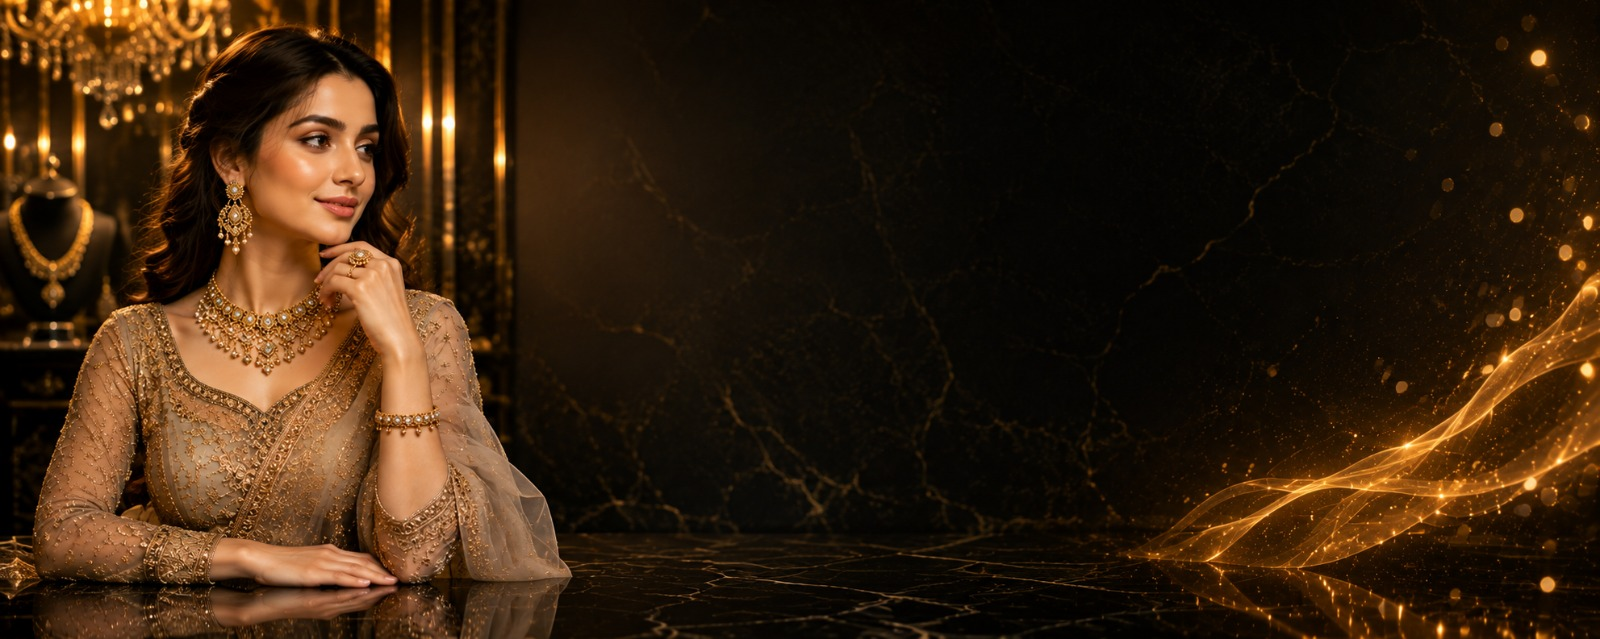
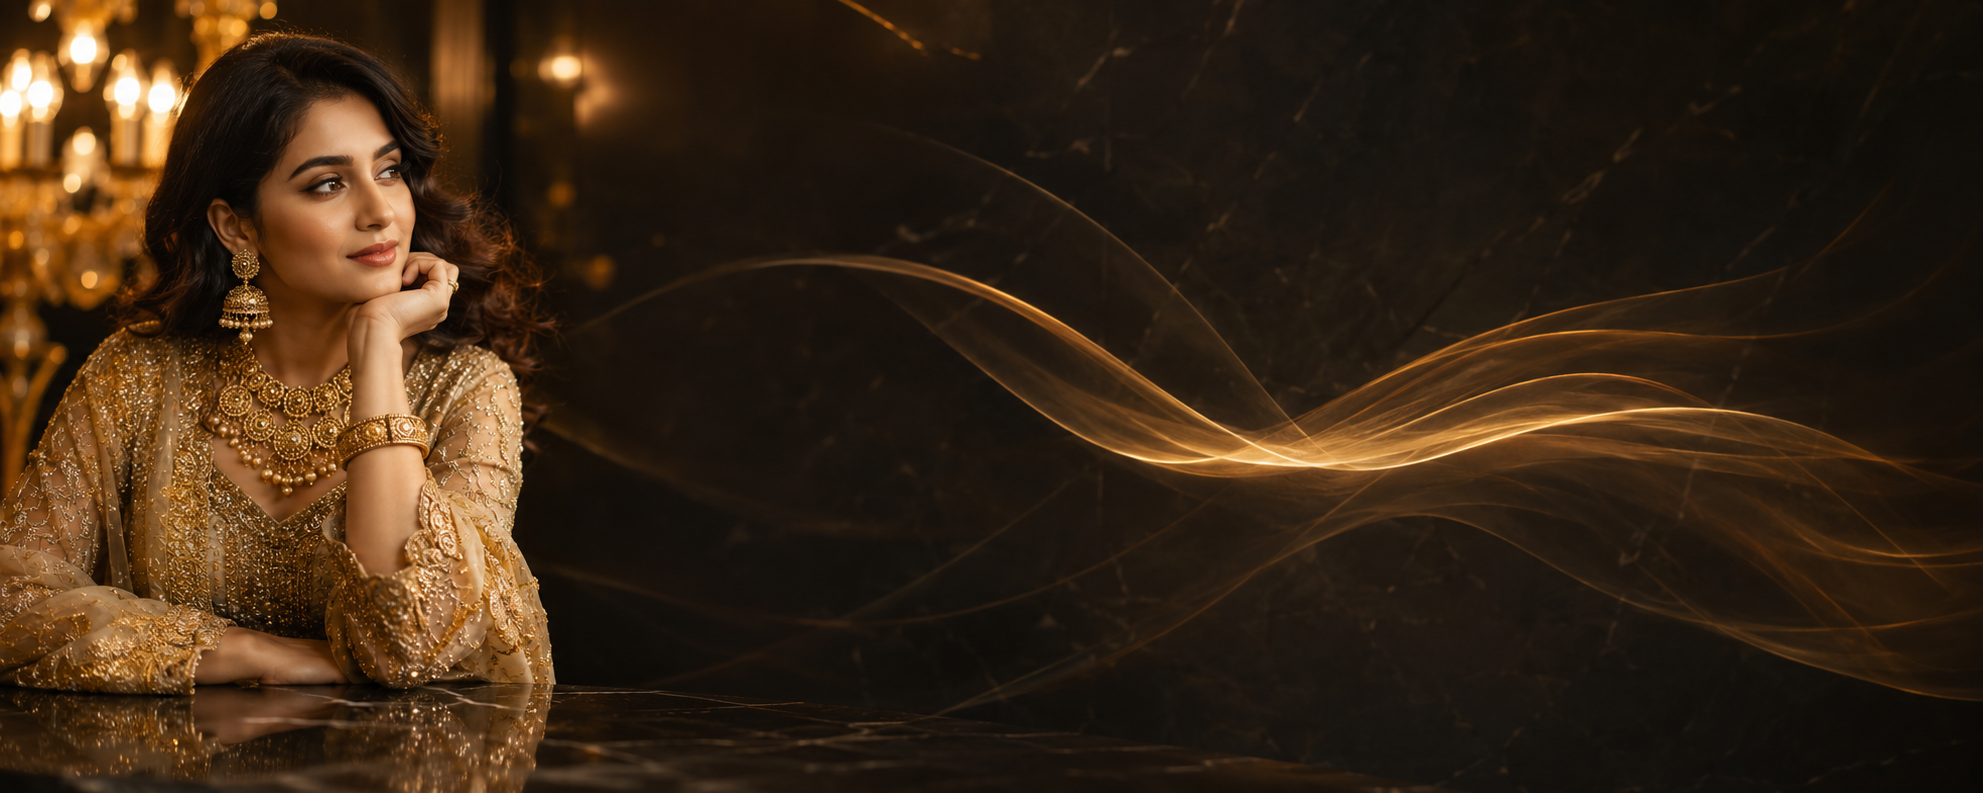
Add Reveal animations and hero enhancements
Introduce a scroll-reveal primitive and several UI/animation improvements. Added resources/js/components/Reveal.tsx and new keyframes/classes in resources/css/app.css (kenBurns, pageFadeIn, review enter animations, reveal utilities, reduced-motion support). Apply page animation in AppLayout and integrate Reveal in Home: hero slider gets ken-burns, gradient & min-height tweaks, product cards and sections now reveal on scroll, reviews carousel gains directional enter animations and animated stars. Updated banner images: banner1-3 replaced, banner4.jpeg removed, banner5-8 added.

diff --git a/resources/js/Pages/Home.tsx b/resources/js/Pages/Home.tsx
@@ -3,6 +3,7 @@ import { Head, Link, router } from '@inertiajs/react';
 import AppLayout from '../Layouts/AppLayout';
 import ProductCard from '@/components/ProductCard';
 import DiscountBadge from '@/components/DiscountBadge';
+import Reveal from '@/Components/Reveal';
 import type { Category, ProductCard as ProductCardType } from '@/types';
 
 interface City {
@@ -36,9 +37,8 @@ export default function Home({ cities, categories, latestArrivals, featuredCateg
 
     const banners = [
         '/images/banner1.png',
-        // '/images/banner2.png',
+        '/images/banner2.png',
         '/images/banner3.png',
-        // '/images/banner4.jpeg'
     ];
 
     useEffect(() => {
@@ -62,19 +62,24 @@ export default function Home({ cities, categories, latestArrivals, featuredCateg
             <Head title="Find Trusted Jewellers in Pakistan" />
 
             {/* ── Hero Section ──────────────────────────────────────────── */}
-            <section className="relative bg-[#0f172a] py-16 md:py-24 overflow-hidden">
+            <section className="relative bg-[#0f172a] py-16 md:py-24 min-h-[420px] md:min-h-[620px] overflow-hidden">
                 {/* Background Slider */}
                 <div className="absolute inset-0 z-0">
                     {banners.map((src, index) => (
                         <div
                             key={src}
-                            className={`absolute inset-0 bg-cover bg-center transition-opacity duration-1000 ease-in-out ${currentBannerIndex === index ? 'opacity-60' : 'opacity-0'
+                            className={`absolute inset-0 bg-cover bg-no-repeat transition-opacity duration-1000 ease-in-out ${currentBannerIndex === index ? 'opacity-90' : 'opacity-0'
                                 }`}
-                            style={{ backgroundImage: `url('${src}')` }}
+                            style={{
+                                backgroundImage: `url('${src}')`,
+                                backgroundPosition: '14% 18%',
+                                transformOrigin: '14% 18%',
+                                animation: currentBannerIndex === index ? 'kenBurns 4.6s ease-out forwards' : 'none',
+                            }}
                         />
                     ))}
                     {/* Gradient Overlay for luxury feel and readability */}
-                    <div className="absolute inset-0 bg-gradient-to-t from-[#0f172a] via-[#0f172a]/65 to-[#0f172a]/35" />
+                    <div className="absolute inset-0 bg-gradient-to-t from-[#0f172a]/90 via-[#0f172a]/40 to-[#0f172a]/15" />
                 </div>
 
                 <div className="absolute inset-0 opacity-5 pointer-events-none z-0">
@@ -174,11 +179,11 @@ export default function Home({ cities, categories, latestArrivals, featuredCateg
             {latestArrivals.length > 0 && (
                 <section className="py-20 bg-white">
                     <div className="max-w-7xl mx-auto px-4 sm:px-6 lg:px-8">
-                        <div className="text-center mb-12">
+                        <Reveal className="text-center mb-12">
                             <span className="text-[#d4af37] tracking-widest uppercase font-semibold text-xs">Fresh Designs</span>
                             <h2 className="font-luxury text-4xl md:text-5xl text-[#0f172a] font-bold mt-2">Latest Arrivals</h2>
                             <div className="w-24 h-0.5 bg-[#d4af37] mx-auto mt-4" />
-                        </div>
+                        </Reveal>
 
                         <HorizontalProductSlider products={latestArrivals} />
                     </div>
@@ -189,10 +194,10 @@ export default function Home({ cities, categories, latestArrivals, featuredCateg
             {featuredCategories.map((cat) => (
                 <section key={cat.id} className="py-20 bg-[#faf9f6] border-t border-gray-100">
                     <div className="max-w-7xl mx-auto px-4 sm:px-6 lg:px-8">
-                        <div className="text-center mb-12">
+                        <Reveal className="text-center mb-12">
                             <h2 className="font-luxury text-5xl md:text-6xl text-[#0f172a] font-bold">{cat.name}</h2>
                             <div className="w-24 h-0.5 bg-[#d4af37] mx-auto mt-4" />
-                        </div>
+                        </Reveal>
 
                         <HorizontalProductSlider products={cat.products} />
 
@@ -213,12 +218,14 @@ export default function Home({ cities, categories, latestArrivals, featuredCateg
             {/* ── Customer Reviews ──────────────────────────────────────── */}
             <section className="py-20 bg-white overflow-hidden">
                 <div className="max-w-7xl mx-auto px-4 sm:px-6 lg:px-8">
-                    <div className="text-center mb-12">
+                    <Reveal className="text-center mb-12">
                         <span className="text-[#d4af37] tracking-widest uppercase font-semibold text-xs">Customer Stories</span>
                         <h2 className="font-luxury text-3xl md:text-4xl text-[#0f172a] font-bold mt-2">What Our Clients Say</h2>
                         <div className="w-24 h-0.5 bg-[#d4af37] mx-auto mt-4" />
-                    </div>
-                    <ReviewsCarousel />
+                    </Reveal>
+                    <Reveal delay={150}>
+                        <ReviewsCarousel />
+                    </Reveal>
                 </div>
             </section>
         </AppLayout>
@@ -259,10 +266,14 @@ function HorizontalProductSlider({ products }: { products: ProductCardType[] }) 
                 ref={scrollRef}
                 className="flex gap-5 overflow-x-auto pb-4 scroll-smooth"
                 style={{ scrollbarWidth: 'none', msOverflowStyle: 'none' }}>
-                {products.map((product) => (
-                    <div key={product.id} className="flex-shrink-0 w-[calc(100%-20px)] sm:w-[calc(50%-15px)] md:w-[calc(33.33%-15px)] lg:w-[calc(25%-15px)]">
+                {products.map((product, idx) => (
+                    <Reveal
+                        key={product.id}
+                        delay={Math.min(idx, 4) * 90}
+                        className="flex-shrink-0 w-[calc(100%-20px)] sm:w-[calc(50%-15px)] md:w-[calc(33.33%-15px)] lg:w-[calc(25%-15px)]"
+                    >
                         <ProductCard product={product} />
-                    </div>
+                    </Reveal>
                 ))}
             </div>
         </div>
@@ -280,10 +291,17 @@ function ReviewsCarousel() {
     ];
 
     const [currentPage, setCurrentPage] = React.useState(0);
+    const [direction, setDirection] = React.useState<'next' | 'prev'>('next');
     const totalPages = Math.ceil(reviews.length / 2);
 
-    const handleNext = () => setCurrentPage((prev) => (prev + 1) % totalPages);
-    const handlePrev = () => setCurrentPage((prev) => (prev - 1 + totalPages) % totalPages);
+    const handleNext = () => {
+        setDirection('next');
+        setCurrentPage((prev) => (prev + 1) % totalPages);
+    };
+    const handlePrev = () => {
+        setDirection('prev');
+        setCurrentPage((prev) => (prev - 1 + totalPages) % totalPages);
+    };
 
     React.useEffect(() => {
         const interval = setInterval(handleNext, 6000);
@@ -296,20 +314,31 @@ function ReviewsCarousel() {
         <div className="max-w-6xl mx-auto relative group">
             {/* Navigation Arrows (Top Right) */}
             <div className="absolute -top-16 right-0 hidden md:flex gap-2 z-10">
-                <button onClick={handlePrev} className="w-10 h-10 rounded-full bg-[#0f172a] hover:bg-[#d4af37] text-white flex items-center justify-center shadow-md hover:shadow-xl transition-all duration-300 transform hover:scale-110 cursor-pointer border-2 border-transparent hover:border-white/20" title="Previous">
+                <button onClick={handlePrev} className="w-10 h-10 rounded-full bg-[#0f172a] hover:bg-[#d4af37] text-white flex items-center justify-center shadow-md hover:shadow-xl transition-all duration-300 transform hover:scale-110 hover:-translate-x-0.5 cursor-pointer border-2 border-transparent hover:border-white/20" title="Previous">
                     <i className="fa-solid fa-arrow-left-long text-sm" />
                 </button>
-                <button onClick={handleNext} className="w-10 h-10 rounded-full bg-[#0f172a] hover:bg-[#d4af37] text-white flex items-center justify-center shadow-md hover:shadow-xl transition-all duration-300 transform hover:scale-110 cursor-pointer border-2 border-transparent hover:border-white/20" title="Next">
+                <button onClick={handleNext} className="w-10 h-10 rounded-full bg-[#0f172a] hover:bg-[#d4af37] text-white flex items-center justify-center shadow-md hover:shadow-xl transition-all duration-300 transform hover:scale-110 hover:translate-x-0.5 cursor-pointer border-2 border-transparent hover:border-white/20" title="Next">
                     <i className="fa-solid fa-arrow-right-long text-sm" />
                 </button>
             </div>
 
-            <div className="grid grid-cols-1 md:grid-cols-2 gap-6 transition-all duration-500 ease-in-out">
-                {visibleReviews.map((rev) => (
-                    <div key={rev.id} className="bg-[#faf9f6] border border-[#d4af37]/25 rounded-2xl p-6 md:p-8 shadow-md hover:shadow-xl transition-all duration-300 relative hover:-translate-y-1">
+            <div key={currentPage} className="grid grid-cols-1 md:grid-cols-2 gap-6">
+                {visibleReviews.map((rev, idx) => (
+                    <div
+                        key={rev.id}
+                        className={`bg-[#faf9f6] border border-[#d4af37]/25 rounded-2xl p-6 md:p-8 shadow-md hover:shadow-xl transition-all duration-300 relative hover:-translate-y-1 ${direction === 'next' ? 'animate-review-next' : 'animate-review-prev'
+                            }`}
+                        style={{ animationDelay: `${idx * 100}ms` }}
+                    >
                         <span className="absolute top-4 right-6 text-6xl text-[#d4af37]/10 font-serif">"</span>
                         <div className="flex gap-1 mb-3 text-[#d4af37]">
-                            {[...Array(rev.rating)].map((_, i) => <i key={i} className="fa-solid fa-star text-xs" />)}
+                            {[...Array(rev.rating)].map((_, i) => (
+                                <i
+                                    key={i}
+                                    className="fa-solid fa-star text-xs animate-fade-in-up"
+                                    style={{ animationDelay: `${idx * 100 + 200 + i * 60}ms` }}
+                                />
+                            ))}
                         </div>
                         <p className="text-gray-600 italic text-sm md:text-base leading-relaxed mb-6">"{rev.review}"</p>
                         <div className="flex items-center justify-between border-t border-gray-200/50 pt-4">
@@ -325,7 +354,14 @@ function ReviewsCarousel() {
 
             <div className="flex justify-center gap-2 mt-8">
                 {[...Array(totalPages)].map((_, idx) => (
-                    <button key={idx} onClick={() => setCurrentPage(idx)} className={`h-2.5 rounded-full transition-all duration-300 ${idx === currentPage ? 'w-8 bg-[#d4af37]' : 'w-2.5 bg-gray-300 hover:bg-gray-400'}`} />
+                    <button
+                        key={idx}
+                        onClick={() => {
+                            setDirection(idx >= currentPage ? 'next' : 'prev');
+                            setCurrentPage(idx);
+                        }}
+                        className={`h-2.5 rounded-full transition-all duration-300 ${idx === currentPage ? 'w-8 bg-[#d4af37]' : 'w-2.5 bg-gray-300 hover:bg-gray-400'}`}
+                    />
                 ))}
             </div>
         </div>

diff --git a/resources/css/app.css b/resources/css/app.css
@@ -56,12 +56,96 @@
         }
     }
 
+    @keyframes kenBurns {
+        from {
+            transform: scale(1);
+        }
+        to {
+            transform: scale(1.08);
+        }
+    }
+
+    @keyframes pageFadeIn {
+        from {
+            opacity: 0;
+            transform: translateY(8px);
+        }
+        to {
+            opacity: 1;
+            transform: translateY(0);
+        }
+    }
+
     .animate-fade-in-up {
-        animation: fadeInUp 0.8s cubic-bezier(0.16, 1, 0.3, 1) forwards;
+        animation: fadeInUp 0.8s cubic-bezier(0.16, 1, 0.3, 1) both;
+    }
+
+    @keyframes reviewEnterNext {
+        from {
+            opacity: 0;
+            transform: translateX(28px) scale(0.98);
+        }
+        to {
+            opacity: 1;
+            transform: translateX(0) scale(1);
+        }
+    }
+
+    @keyframes reviewEnterPrev {
+        from {
+            opacity: 0;
+            transform: translateX(-28px) scale(0.98);
+        }
+        to {
+            opacity: 1;
+            transform: translateX(0) scale(1);
+        }
+    }
+
+    .animate-review-next {
+        animation: reviewEnterNext 0.55s cubic-bezier(0.16, 1, 0.3, 1) both;
+    }
+
+    .animate-review-prev {
+        animation: reviewEnterPrev 0.55s cubic-bezier(0.16, 1, 0.3, 1) both;
     }
 
     .animate-float {
         animation: float 4s ease-in-out infinite;
+    }
+
+    .animate-page-in {
+        animation: pageFadeIn 0.45s cubic-bezier(0.16, 1, 0.3, 1) forwards;
+    }
+
+    /* Scroll-reveal primitive (paired with the <Reveal> component / useReveal hook) */
+    .reveal {
+        opacity: 0;
+        transition: opacity 0.7s cubic-bezier(0.16, 1, 0.3, 1), transform 0.7s cubic-bezier(0.16, 1, 0.3, 1);
+        will-change: opacity, transform;
+    }
+
+    .reveal-up { transform: translateY(28px); }
+    .reveal-down { transform: translateY(-28px); }
+    .reveal-left { transform: translateX(28px); }
+    .reveal-right { transform: translateX(-28px); }
+    .reveal-zoom { transform: scale(0.94); }
+
+    .reveal-visible {
+        opacity: 1;
+        transform: translate(0, 0) scale(1);
+    }
+
+    @media (prefers-reduced-motion: reduce) {
+        *, *::before, *::after {
+            animation: none !important;
+            transition: none !important;
+        }
+
+        .reveal {
+            opacity: 1 !important;
+            transform: none !important;
+        }
     }
 
     /* Premium Shimmer/Shine Hover Effect */

diff --git a/resources/js/components/Reveal.tsx b/resources/js/components/Reveal.tsx
@@ -1,0 +1,49 @@
+import React, { useEffect, useRef, useState } from 'react';
+
+type RevealDirection = 'up' | 'down' | 'left' | 'right' | 'zoom';
+
+interface RevealProps {
+    children: React.ReactNode;
+    direction?: RevealDirection;
+    delay?: number;
+    className?: string;
+    as?: React.ElementType;
+}
+
+/**
+ * Wraps content in a scroll-triggered fade/slide-in animation.
+ * Plays once when the element enters the viewport.
+ */
+export default function Reveal({ children, direction = 'up', delay = 0, className = '', as = 'div' }: RevealProps) {
+    const ref = useRef<HTMLDivElement>(null);
+    const [visible, setVisible] = useState(false);
+    const Tag = as as any;
+
+    useEffect(() => {
+        const node = ref.current;
+        if (!node) return;
+
+        const observer = new IntersectionObserver(
+            ([entry]) => {
+                if (entry.isIntersecting) {
+                    setVisible(true);
+                    observer.disconnect();
+                }
+            },
+            { threshold: 0.15, rootMargin: '0px 0px -10% 0px' }
+        );
+
+        observer.observe(node);
+        return () => observer.disconnect();
+    }, []);
+
+    return (
+        <Tag
+            ref={ref}
+            className={`reveal reveal-${direction} ${visible ? 'reveal-visible' : ''} ${className}`}
+            style={{ transitionDelay: visible ? `${delay}ms` : '0ms' }}
+        >
+            {children}
+        </Tag>
+    );
+}

diff --git a/resources/js/Layouts/AppLayout.tsx b/resources/js/Layouts/AppLayout.tsx
@@ -34,7 +34,7 @@ export default function AppLayout({ children }: AppLayoutProps) {
             <Navbar />
 
             {/* Main Content */}
-            <main className="flex-grow">
+            <main className="flex-grow animate-page-in">
                 {children}
             </main>
 
